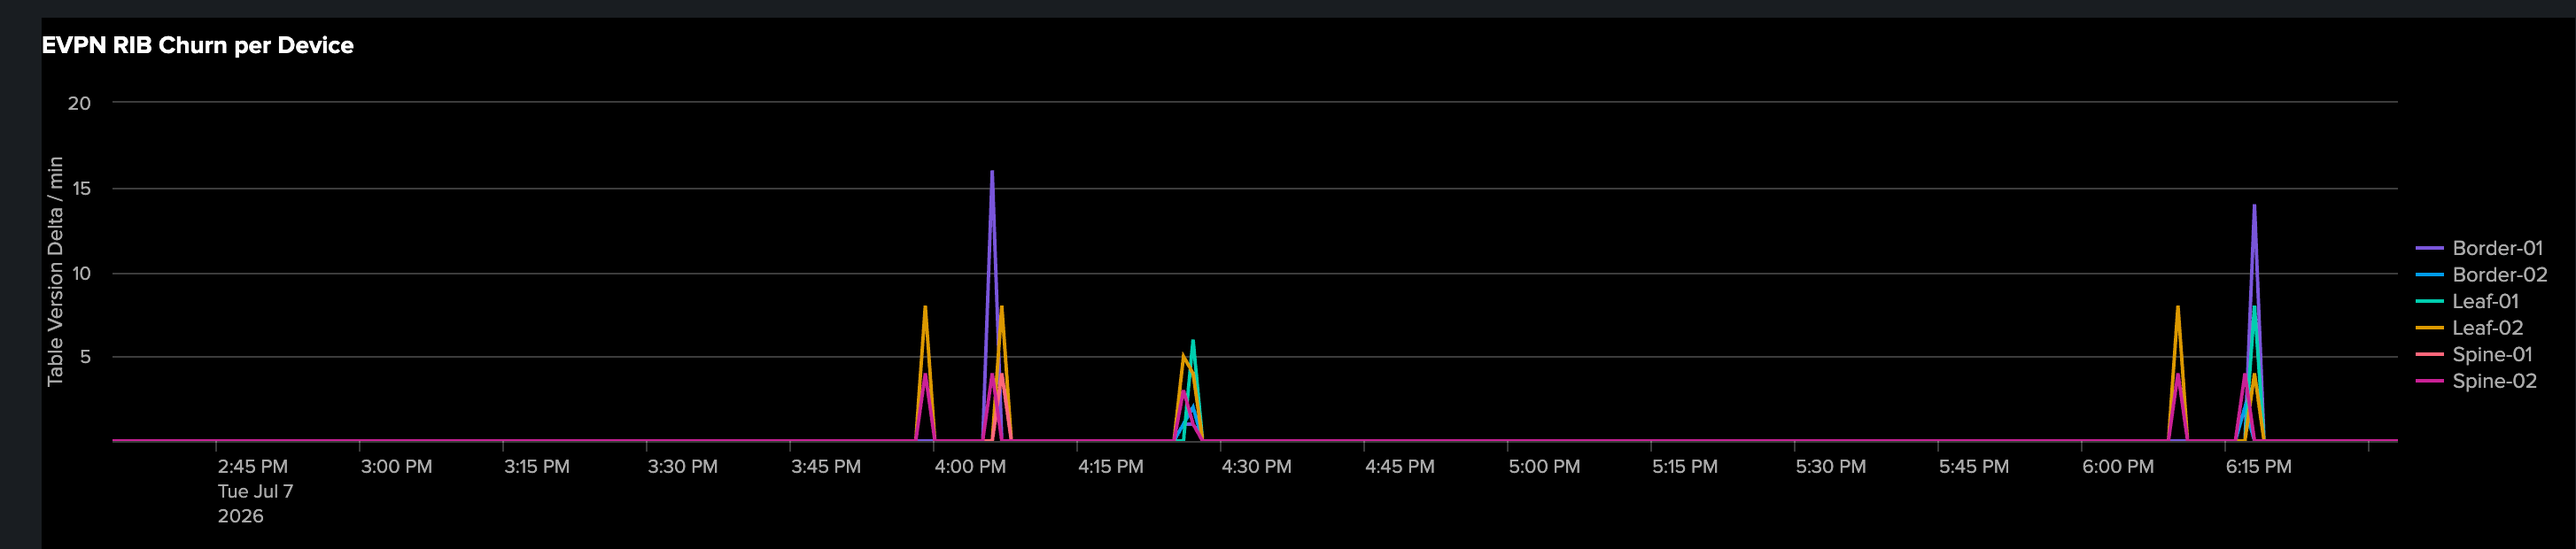
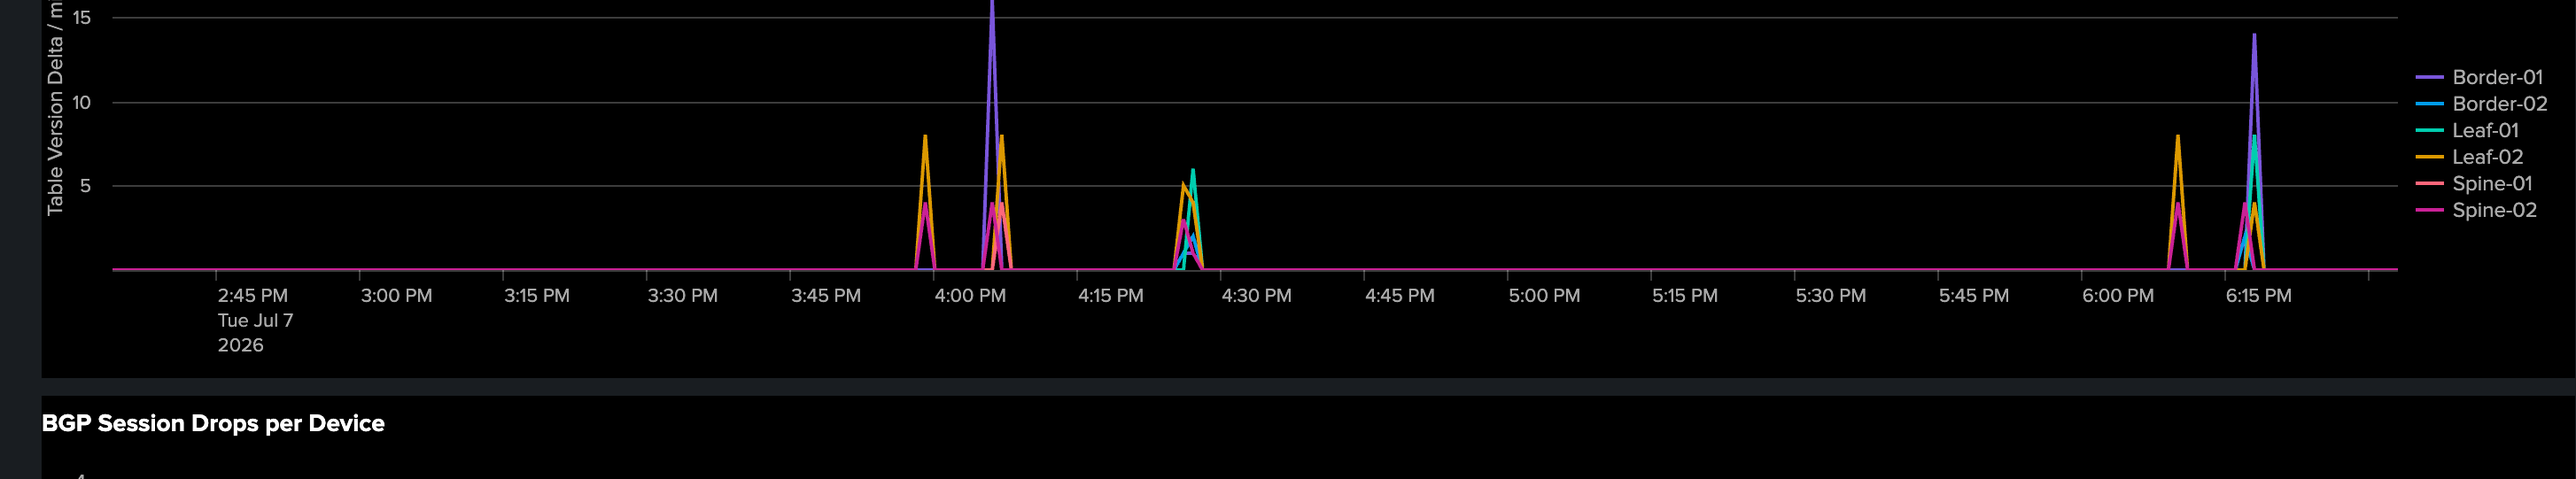
Align Splunk Assurance README with ten-row Summary dashboard snippets.
Regenerate Summary crops after adding the L2 segment placement layout row,
refresh panel-level Operator's Guide copy to match live dashboard titles, and
add a BGP health-matrix hero in the Introduction.

diff --git a/Campus BGP EVPN Splunk Assurance/images/split_dashboard_snippets.py b/Campus BGP EVPN Splunk Assurance/images/split_dashboard_snippets.py
@@ -21,6 +21,7 @@ EXEC_NAMES = [
     "scorecards",
     "bgp_trends_vrf_sankey",
     "segment_inventory",
+    "l2_segment_placement",
     "busiest_vxlan",
     "bgp_health_matrix",
     "nve_overlay_counts",

diff --git a/Campus BGP EVPN Splunk Assurance/README.md b/Campus BGP EVPN Splunk Assurance/README.md
@@ -57,6 +57,17 @@ troubleshooting — but who may be new to **streaming telemetry, OpenTelemetry, 
 | **Telemetry engineer** | [§4](#4-telemetry-and-data-model) | [`otel-collector/README.md`](otel-collector/README.md) |
 | **Splunk maintainer** | [`campus_evpn_assurance/README.md`](campus_evpn_assurance/README.md) | Macros, `mstats` patterns, inventory lookup |
 
+### At a glance
+
+![BGP Session Health Matrix — fabric control-plane mesh; green = Established, red = any session down](images/snippets/summary_bgp_health_matrix.png)
+
+One telemetry pipeline replaces shift-long `show bgp` sweeps: every device × peer pair
+collapses to a green dot (all sessions Established) or red (any negotiated hold-time = 0).
+The **Summary** and **Details** dashboards extend that lens across overlay inventory, VXLAN
+load, EVPN route churn, and **Silent Devices (>5m)** when MDT stops arriving. The
+[Operator's Guide](#6-operators-guide) walks each panel row with matching snippets from
+`images/snippets/`.
+
 ---
 
 ## 2. Lifecycle Context
@@ -266,18 +277,21 @@ Summary  →  (red / non-zero)  →  Details (pick role)  →  Alerts (confirm)
 | **Spines** | L2/L3 VNIs normally **0** | Session to every leaf/border | RR peering, prefix reflection |
 | **Borders** | L2 often **0**; L3 = tenants | Spine + external eBGP | L3 VNI egress, northbound handoff |
 
-**Snippet regeneration:** `python3 images/split_dashboard_snippets.py` (see
-[`images/README.md`](images/README.md)).
+**Snippet regeneration:** `python3 images/split_dashboard_snippets.py` — Summary = 10 rows,
+Details = 11 rows per role (see [`images/README.md`](images/README.md)).
 
 ### 6.2 Summary dashboard
 
-Nine panel rows. Captures: site `Building P0`, last 4 hours.
+Ten panel rows on the **Summary** tab. Captures: site `Building P0`, last 4 hours.
 
 #### Row 1 — Scorecards
 
-![Summary scorecards](images/snippets/summary_scorecards.png)
+![Summary scorecards — fabric-wide go/no-go tiles](images/snippets/summary_scorecards.png)
 
-Fabric go/no-go. Red **Silent Devices** → check collector before assuming device fault.
+Seven fabric-wide tiles: **NVE VNIs ▲/▼**, **BGP Sessions ▲/▼**, **VTEP Tunnel Peers**,
+**Tunnel Interfaces ▲/▼**, **Active L2 VNIs**, **Active VRFs (L3 VNIs)**, and **Silent Devices
+(>5m)**. Scorecards use the latest snapshot in the picker window (not the full trend). Red
+**Silent Devices** → verify collector and MDT subscriptions before blaming the switch.
 
 ```text
 show nve vni summary
@@ -290,9 +304,11 @@ show vrf brief
 
 #### Row 2 — BGP trends and tenant VRFs
 
-![BGP Established per device; Tenant VRFs by role](images/snippets/summary_bgp_trends_vrf_sankey.png)
+![BGP Established per device; Tenant VRFs by device role (Sankey)](images/snippets/summary_bgp_trends_vrf_sankey.png)
 
-Flat Established lines = stable; dips = flap. Sankey: which roles host which tenant VRFs.
+Left: **BGP Sessions Established — Per Device Over Time** — flat lines = stable; dips (e.g.
+border nodes) = session flap. Right: **Tenant VRFs by Device Role** Sankey from NVE L3 VNI
+data-plane state (`nve-vni-oper`, `vni-type=l3`) — which roles host `red` / `blue` / `green`.
 
 ```text
 show bgp l2vpn evpn summary
@@ -300,44 +316,68 @@ show vrf
 show nve vni
 ```
 
-#### Row 3 — Segment inventory
+#### Row 3 — Segment inventory by tenant
 
-![L2 vs L3 VNI counts per tenant VRF](images/snippets/summary_segment_inventory.png)
+![Segment Inventory by Tenant VRF — stacked L2 and L3 VNI counts](images/snippets/summary_segment_inventory.png)
 
-Per-tenant overlay census vs build intent.
+**Segment Inventory by Tenant VRF** — one horizontal bar per tenant; green = L3 VNIs (routed),
+blue = L2 VNIs (bridged). Bar length = total distinct segments that tenant owns fabric-wide.
+Compare to [`DEFN-OVERLAY.j2`](https://github.com/imanassypov/CatalystCenter-BGP-EVPN-VXLAN/blob/main/Catalyst%20Center%20Templates/Site%20BGP%20EVPN%20Templates/DEFN-OVERLAY.j2) intent.
 
 ```text
 show nve vni
 show l2vpn evpn evi detail
+show vrf
 ```
 
-#### Row 4 — Busiest VXLAN segments
+#### Row 4 — L2 segment placement
 
-![Top 3 VXLAN segments by bytes](images/snippets/summary_busiest_vxlan.png)
+![L2 Segment Placement by Device — access vs overlay-only rows per leaf](images/snippets/summary_l2_segment_placement.png)
 
-Hot-spot leaderboard (Sub 40115).
+**L2 Segment Placement by Device** — table from `evpn_segment_inventory`: which L2 segments
+are **access** (client port on that leaf) vs **overlay-only** (VNI/SVI role, no access port).
+Cross-check **NVE State** against live `nve-vni-oper` (e.g. corp segment access on Leaf-02
+only). Flags intent drift before users notice.
+
+```text
+show nve vni
+show l2vpn evpn evi detail
+show vlan brief
+```
+
+#### Row 5 — Busiest VXLAN segments
+
+![Top 3 Busiest VXLAN Segments — fabric-wide byte leaderboard](images/snippets/summary_busiest_vxlan.png)
+
+**VXLAN Bandwidth per VNI — Mbps (Sub 40115)** rendered as **Top 3 Busiest VXLAN Segments**:
+horizontal bars ranked by per-minute byte delta from `nve-vni-oper-counters`, summed per
+device + VNI across the picker range. Blue = L2 VNI; green = L3 VNI in the legend.
 
 ```text
 show nve vni
 show interfaces nve 1 counters
 ```
 
-#### Row 5 — BGP health matrix
+#### Row 6 — BGP health matrix
 
-![Device × peer session grid](images/snippets/summary_bgp_health_matrix.png)
+![BGP Session Health Matrix — Device × Peer](images/snippets/summary_bgp_health_matrix.png)
 
-Green = all sessions Established; red = any down; blank = no peering.
+**BGP Session Health Matrix — Device × Peer** — each cell is green when every BGP session
+between that device/peer pair is Established, red when any hold-time = 0, blank when no
+peering exists. Fastest fabric-wide control-plane triage.
 
 ```text
 show bgp l2vpn evpn summary
 show bgp l2vpn evpn neighbors <peer-ip>
 ```
 
-#### Row 6 — NVE overlay counts
+#### Row 7 — NVE overlay counts
 
-![Per-device VTEP peers, L2/L3 VNI counts](images/snippets/summary_nve_overlay_counts.png)
+![NVE Overlay Counts — per device with role-consistency colouring](images/snippets/summary_nve_overlay_counts.png)
 
-Per-device overlay inventory; colour = match to role design.
+**NVE Overlay Counts — Per Device** — point-in-time VTEP peer, active L2 VNI, and L3 VNI/VRF
+counts from `nve-oper`. Cell colour: green = all peers in the same role report the same count;
+yellow = drift vs a role peer; red = zero (expected for spine L2 in many designs).
 
 ```text
 show nve peers
@@ -345,33 +385,38 @@ show nve vni summary
 show vrf brief
 ```
 
-#### Row 7 — EVPN route updates
+#### Row 8 — EVPN route updates
 
-![Type 2 vs Type 5 route update deltas](images/snippets/summary_evpn_route_updates.png)
+![EVPN Route Updates by device table and Type 2 vs Type 5 by role](images/snippets/summary_evpn_route_updates.png)
 
-Control-plane work rate (Sub 40113) — not RIB size.
+Left: per-device **local-add / remote-add** counters from `evpn-stats` (Sub 40113) — T2 MAC,
+T2 MAC/IP, T5 prefix update deltas. Right: same data stacked **by role** (Type 2 vs Type 5).
+Control-plane *work rate*, not RIB size.
 
 ```text
 show bgp l2vpn evpn statistics
 show l2vpn evpn evi detail
 ```
 
-#### Row 8 — EVPN RIB churn
+#### Row 9 — EVPN RIB churn
 
-![Table version delta per device](images/snippets/summary_evpn_rib_churn.png)
+![EVPN RIB Churn per Device — table version delta per minute](images/snippets/summary_evpn_rib_churn.png)
 
-Correlates with MAC moves and reconvergence.
+**EVPN RIB Churn — Per Role** (line chart: table version delta / min per device). Spikes
+correlate with MAC moves, reconvergence, and BGP events — pair with Row 2 Established dips and
+Row 6 matrix reds.
 
 ```text
 show bgp l2vpn evpn summary
 show l2vpn evpn mac
 ```
 
-#### Row 9 — BGP session drops
+#### Row 10 — BGP session drops
 
-![Session drop events per device](images/snippets/summary_bgp_session_drops.png)
+![BGP Session Drops per Device — new session drop events over time](images/snippets/summary_bgp_session_drops.png)
 
-Spikes align with Row 2 dips and Row 5 red cells.
+**BGP Session Drops — Per Role** — **New Session Drops / Interval** per device when sessions
+fail to establish or reset. Spikes align with Rows 2 and 9 during control-plane instability.
 
 ```text
 show bgp l2vpn evpn summary
@@ -387,16 +432,16 @@ presents the same panel type.
 | # | Panel row | Demonstrates |
 |---|---|---|
 | 1 | Scorecards | Role-scoped go/no-go ([§6.1](#61-triage-model)) |
-| 2 | Tunnel interface status | `Tunnel*` oper-state (Subs 40120/40121) |
-| 3 | BGP EVPN / IPv4 session state | Per-neighbor adjacency grid |
-| 4 | BGP Established + L3 VNI trends | Session and tenant VRF stability over time |
-| 5 | BGP drops + EVPN RIB churn | Per-node control-plane instability |
-| 6 | NVE peers + tunnels over time | VTEP peer and tunnel up-count trends |
-| 7 | NVE peer adjacency (Sankey) | Device → VNI → remote VTEP |
-| 8 | EVPN VNI binding — control plane | EVI → L3 VNI → L2 VLAN chain |
+| 2 | Tunnel interface status | **Tunnel Interface Status** table (Subs 40120/40121) |
+| 3 | BGP EVPN / IPv4 session state | Per-neighbor **BGP EVPN** and **BGP IPv4** grids |
+| 4 | BGP Established + L3 VNI trends | **BGP Established Sessions per Node** + **L3 VNI count** |
+| 5 | BGP drops + EVPN RIB churn | **BGP Session Drops** + **EVPN RIB Churn** per node |
+| 6 | NVE peers + tunnels over time | **NVE Peers** + **Tunnel Interfaces Up** trends |
+| 7 | NVE peer adjacency (Sankey) | Device → VNI → remote VTEP (24 h snapshot) |
+| 8 | EVPN VNI binding — control plane | EVI → L3 VNI → L2 VLAN (`evpn-oper`) |
 | 9 | EVPN VNI binding — data plane (NVE) | VRF → L3 VNI → NVE L2 VNI oper-state |
-| 10 | VXLAN throughput + BUM ratio | Overlay load and flooding ratio (Sub 40115) |
-| 11 | NVE packet rate + top segments | Per-VNI throughput leaderboard |
+| 10 | VXLAN throughput + BUM ratio | TX+RX bytes/min + BUM vs unicast (Sub 40115) |
+| 11 | NVE packet rate + top segments | Packet rate trend + top-VNI leaderboard |
 
 #### Row 1 — Scorecards
 
@@ -418,7 +463,8 @@ show ip interface brief | include Tunnel
 |:---:|:---:|:---:|
 | ![leafs](images/snippets/leafs_tunnel_interface_status.png) | ![spines](images/snippets/spines_tunnel_interface_status.png) | ![borders](images/snippets/borders_tunnel_interface_status.png) |
 
-All rows **Up**. PIM register / underlay tunnels.
+**Tunnel Interface Status** — oper-state grid for `Tunnel*` interfaces (PIM register / underlay
+tunnels, Subs 40120/40121). All rows **Up** in a healthy lab.
 
 ```text
 show ip interface brief | include Tunnel
@@ -431,7 +477,8 @@ show interfaces Tunnel0 - 99 status
 |:---:|:---:|:---:|
 | ![leafs](images/snippets/leafs_bgp_session_state.png) | ![spines](images/snippets/spines_bgp_session_state.png) | ![borders](images/snippets/borders_bgp_session_state.png) |
 
-EVPN to spines; IPv4 when tenant handoff is configured. Spines: RR completeness to all VTEPs.
+Left: **BGP EVPN Session State** — EVPN neighbours to spines/peers. Right: **BGP IPv4 Session
+State** — tenant or northbound IPv4 when configured. Spines: RR completeness to all VTEPs.
 
 ```text
 show bgp l2vpn evpn summary
@@ -446,7 +493,9 @@ show bgp ipv4 unicast vrf all summary
 |:---:|:---:|:---:|
 | ![leafs](images/snippets/leafs_bgp_vni_trends.png) | ![spines](images/snippets/spines_bgp_vni_trends.png) | ![borders](images/snippets/borders_bgp_vni_trends.png) |
 
-Steady lines = healthy. Spines: session count ≈ leaf + border VTEPs; L3 VNI count minimal.
+Left: **BGP Established Sessions per Node** — session count stability for the filtered role.
+Right: **L3 VNI (VRF) Count per Node** — tenant VRF presence on each node. Spines: session
+count ≈ all VTEP peers; L3 VNI count often minimal on pure RRs.
 
 ```text
 show bgp l2vpn evpn summary
@@ -460,7 +509,8 @@ show nve vni
 |:---:|:---:|:---:|
 | ![leafs](images/snippets/leafs_bgp_drops_rib_churn.png) | ![spines](images/snippets/spines_bgp_drops_rib_churn.png) | ![borders](images/snippets/borders_bgp_drops_rib_churn.png) |
 
-Single node spiking → local fault. Zeros expected in steady state.
+Left: **BGP Session Drops per Node**. Right: **EVPN RIB Churn per Node** (table version
+delta / min). Single node spiking → local fault; zeros expected in steady state.
 
 ```text
 show bgp l2vpn evpn summary
@@ -474,7 +524,8 @@ show logging | include BGP
 |:---:|:---:|:---:|
 | ![leafs](images/snippets/leafs_nve_peers_tunnels.png) | ![spines](images/snippets/spines_nve_peers_tunnels.png) | ![borders](images/snippets/borders_nve_peers_tunnels.png) |
 
-Step-down → remote VTEP or tunnel lost.
+Left: **NVE Peers Over Time** — VTEP adjacency up-count. Right: **Tunnel Interfaces Up per
+Node Over Time** — underlay/PIM tunnel oper-state. Step-down → remote VTEP or tunnel lost.
 
 ```text
 show nve peers
@@ -487,7 +538,9 @@ show ip interface brief | include Tunnel
 |:---:|:---:|:---:|
 | ![leafs](images/snippets/leafs_nve_peer_adjacency.png) | ![spines](images/snippets/spines_nve_peer_adjacency.png) | ![borders](images/snippets/borders_nve_peer_adjacency.png) |
 
-Missing Sankey flows → broken VNI adjacency for that segment.
+**NVE Peer Adjacency (Device → VNI → VTEP Peer)** — Sankey from `nve-peer-oper` (latest
+snapshot within 24 h, not bound to the time picker). Missing flows → broken VNI adjacency for
+that segment.
 
 ```text
 show nve peers
@@ -501,7 +554,9 @@ show nve vni interface nve 1 detail
 |:---:|:---:|:---:|
 | ![leafs](images/snippets/leafs_evpn_binding_control_plane.png) | ![spines](images/snippets/spines_evpn_binding_control_plane.png) | ![borders](images/snippets/borders_evpn_binding_control_plane.png) |
 
-EVI → L3 VNI → L2 VLAN. Spines often show minimal bindings (expected for pure RR).
+**EVPN VNI Binding — Control Plane** — Sankey chain from `evpn-oper/evpn-inst/evpn-vlan`:
+Leaf → EVI (tenant) → L3VNI → L2VNI → L2 VLAN. Cross-check Row 9 NVE Sankey: EVI ↔ VRF,
+L3/L2 VNI numbers must align.
 
 ```text
 show l2vpn evpn evi detail
@@ -515,7 +570,8 @@ show vlan brief
 |:---:|:---:|:---:|
 | ![leafs](images/snippets/leafs_evpn_binding_data_plane.png) | ![spines](images/snippets/spines_evpn_binding_data_plane.png) | ![borders](images/snippets/borders_evpn_binding_data_plane.png) |
 
-Cross-check Row 8 — CP/DP mismatch flags programming or SVI fault.
+**EVPN VNI Binding — Data Plane (NVE)** — VRF → L3 VNI → NVE L2 VNI oper-state from
+`nve-vni-oper`. Mismatch vs Row 8 → programming or SVI fault.
 
 ```text
 show nve vni
@@ -529,7 +585,9 @@ show vrf detail
 |:---:|:---:|:---:|
 | ![leafs](images/snippets/leafs_vxlan_throughput_bum.png) | ![spines](images/snippets/spines_vxlan_throughput_bum.png) | ![borders](images/snippets/borders_vxlan_throughput_bum.png) |
 
-High BUM % → flooding or missing MAC learning. Borders: northbound egress spikes.
+Left: **VXLAN Throughput per Node — TX+RX Bytes/min (Sub 40115)**. Right: **BUM vs Unicast
+TX Packets per Node** — high BUM % → flooding or missing MAC learning. Borders: northbound
+egress spikes.
 
 ```text
 show interfaces nve 1 counters
@@ -542,7 +600,8 @@ show nve vni
 |:---:|:---:|:---:|
 | ![leafs](images/snippets/leafs_vxlan_packet_rate_top.png) | ![spines](images/snippets/spines_vxlan_packet_rate_top.png) | ![borders](images/snippets/borders_vxlan_packet_rate_top.png) |
 
-Narrows hot nodes to specific VNIs.
+Left: **NVE Interface Packet Rate per Node**. Right: **Top VXLAN Segments by Throughput**
+(Sub 40115) — narrows hot nodes to specific VNIs.
 
 ```text
 show interfaces nve 1 counters

diff --git a/Campus BGP EVPN Splunk Assurance/images/README.md b/Campus BGP EVPN Splunk Assurance/images/README.md
@@ -10,7 +10,7 @@ PNG only** — they do not render `.mmd` inline.
 | `pipeline-flow.png` | `pipeline-flow.mmd` | [`../README.md`](../README.md), [`../Model Maps/README.md`](../Model Maps/README.md) |
 | `telemetry-two-halves.png` | `telemetry-two-halves.mmd` | [`../README.md`](../README.md) — Telemetry Foundations |
 | `metric-journey.png` | `metric-journey.mmd` | [`../README.md`](../README.md) — Worked Example |
-| `splunk_executive.png` | *(screenshot)* | Source capture for Summary dashboard snippets |
+| `splunk_executive.png` | *(screenshot)* | Source capture for Summary dashboard snippets (10 rows) |
 | `splunk_leafs.png` | *(screenshot)* | Source capture for Details / Leafs snippets |
 | `splunk_spines.png` | *(screenshot)* | Source capture for Details / Spines snippets |
 | `splunk_borders.png` | *(screenshot)* | Source capture for Details / Borders snippets |
@@ -28,6 +28,9 @@ python3 split_dashboard_snippets.py
 
 After recapturing a dashboard, overwrite the matching `splunk_<view>.png`, re-run the script,
 and commit both the source PNG and updated `snippets/` crops.
+
+If a snippet crop no longer matches its panel title (dashboard zoom or layout height changed),
+re-capture the source PNG at consistent browser zoom and re-run the split script.
 
 Agent workflow: see `.cursor/skills/splunk-dashboard-snippets/SKILL.md`.
 
